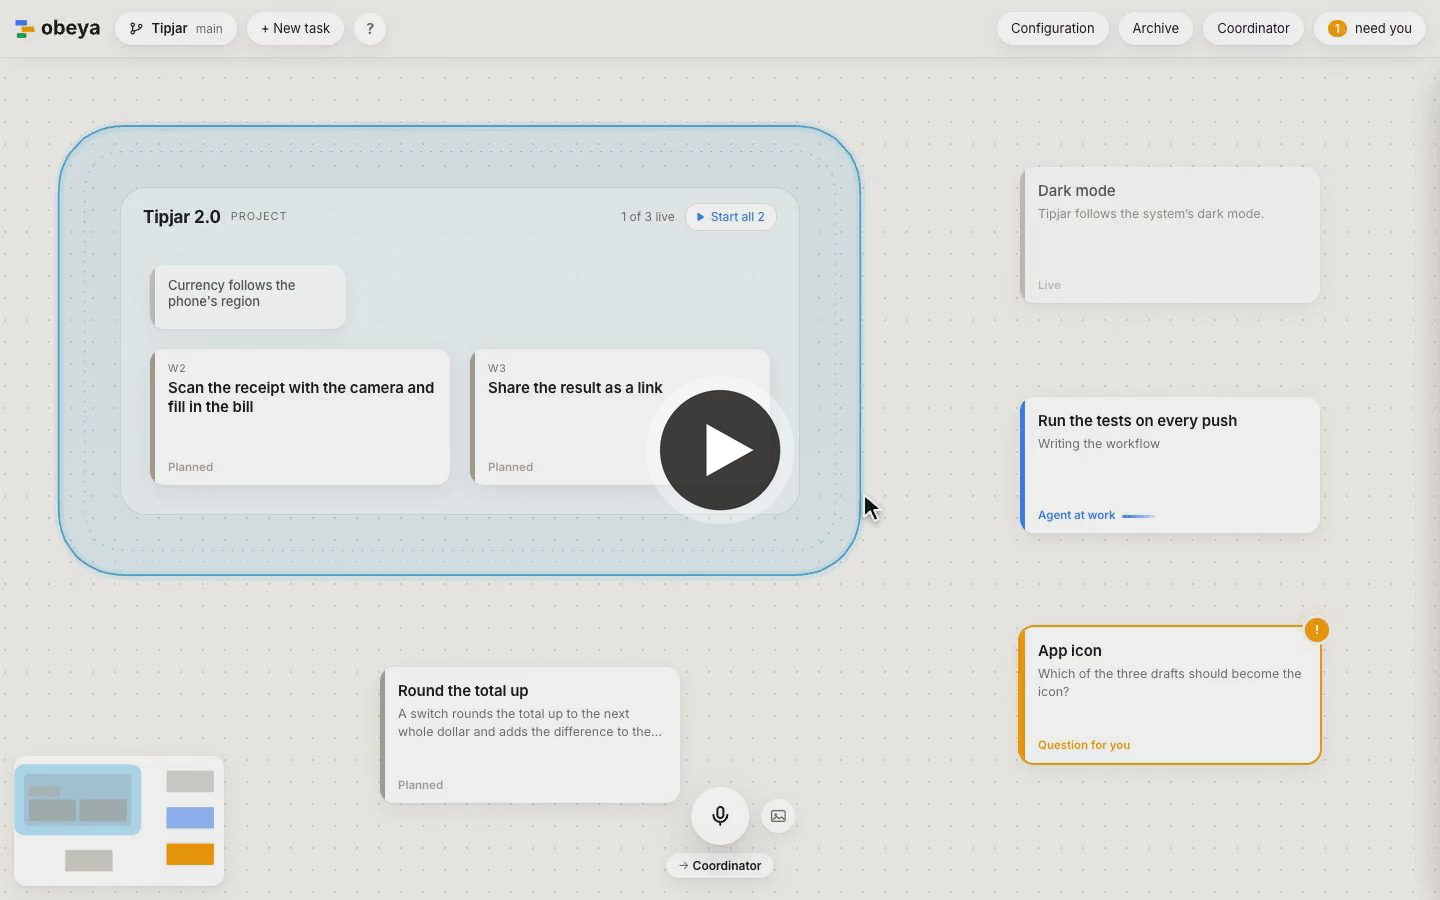
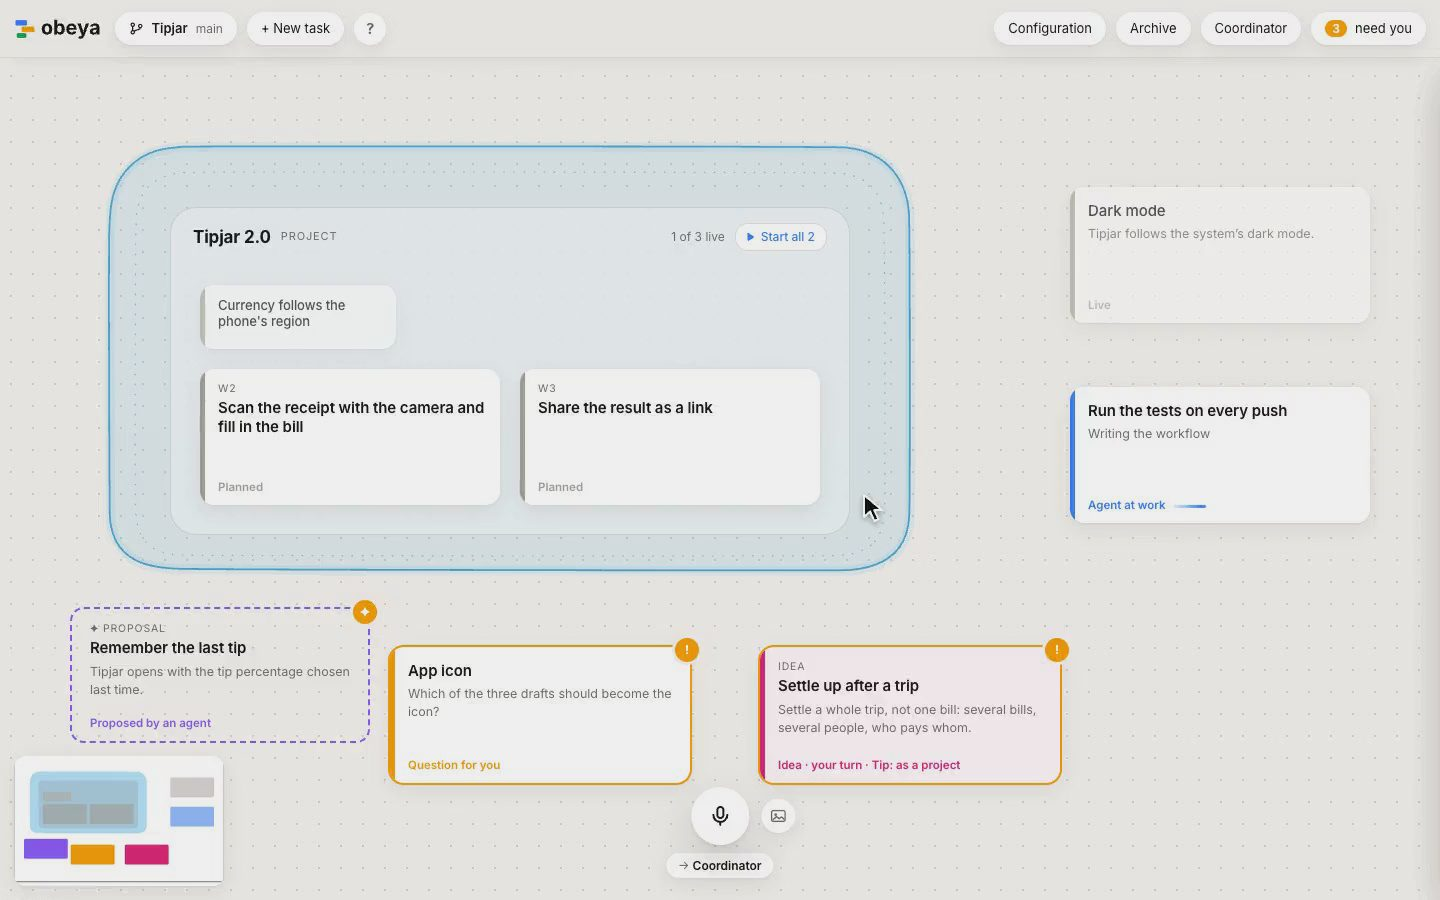
Give the hero video on obeya.si a real play button
The big play button was painted into the poster, so clicking it started nothing; only the small
button in the controls did. The poster now has no button, and a <button> over the video starts
it, with the browser's controls appearing once it plays. Without JavaScript the button stays
hidden and the controls are there from the start. The poster is taken again from the published
render, which also brings it in line with the video's current opening.

diff --git a/site/index.html b/site/index.html
@@ -44,7 +44,24 @@
         <source src="media/hero.mp4" type="video/mp4">
         <track kind="captions" src="media/hero.vtt" srclang="en" label="English">
       </video>
+      <button class="play" type="button" aria-label="Play the video" hidden>
+        <svg viewBox="0 0 148 148" aria-hidden="true"><circle cx="74" cy="74" r="74" fill="#fff" fill-opacity=".38"/>
+          <circle cx="74" cy="74" r="60" fill="#1c1b19" fill-opacity=".84"/><path d="M60.5 48v52l46.8-26z" fill="#fff"/></svg>
+      </button>
     </figure>
+    <script>
+      // With JavaScript the poster shows one big play button instead of the browser's controls;
+      // without it the button stays hidden and the controls start the video.
+      const film = document.querySelector('.player video'), play = document.querySelector('.player .play');
+      film.controls = false;
+      play.hidden = false;
+      play.addEventListener('click', () => {
+        play.hidden = true;
+        film.controls = true;
+        film.play();
+        film.focus();
+      });
+    </script>
     <p class="film-note">A real run on a small app: an idea by voice, an agent at work, its demo, the approval.</p>
   </section>
 

diff --git a/site/style.css b/site/style.css
@@ -46,6 +46,12 @@ section { max-width: var(--wide); margin: 0 auto; padding: 0 24px; }
 .player { position: relative; margin: 0; border-radius: 16px; overflow: hidden; background: #000;
   box-shadow: 0 1px 2px rgba(0,0,0,.06), 0 24px 60px -20px rgba(28,27,25,.35); }
 .player video { display: block; width: 100%; height: auto; }
+.player .play { position: absolute; inset: 0; display: grid; place-items: center; padding: 0; border: 0; background: none; cursor: pointer; }
+.player .play[hidden] { display: none; }
+.player .play svg { width: clamp(72px, 10.3%, 148px); height: auto; border-radius: 50%; transition: transform .15s; }
+.player .play:hover svg { transform: scale(1.06); }
+.player .play:focus-visible { outline: none; }
+.player .play:focus-visible svg { outline: 3px solid var(--blue); outline-offset: 4px; }
 .film-note { text-align: center; font-size: 14px; color: var(--muted); margin: 16px 0 0; }
 
 /* ---------- pillars ---------- */

diff --git a/scripts/hero-video/poster.py b/scripts/hero-video/poster.py
@@ -1,4 +1,5 @@
-"""The site's poster for the hero video: its first frame, slightly dimmed, with a play button.
+"""The site's poster for the hero video: its first frame, slightly dimmed. The play button over it
+is a real button in site/index.html, not part of the picture.
 
     uv run --with pillow python scripts/hero-video/poster.py ~/demos/obeya-hero/demo.mp4 site/img/hero-poster.jpg
 """
@@ -8,21 +9,12 @@ import sys
 import tempfile
 from pathlib import Path
 
-from PIL import Image, ImageDraw
+from PIL import Image
 
 video, out = sys.argv[1], sys.argv[2]
 with tempfile.TemporaryDirectory() as tmp:
     frame = Path(tmp) / "frame.png"
     subprocess.run(["ffmpeg", "-loglevel", "error", "-y", "-ss", "0.6", "-i", video, "-frames:v", "1", str(frame)], check=True)
     im = Image.open(frame).convert("RGBA")
-w, h = im.size
-s = 4  # drawn four times larger and scaled down, for smooth edges
-button = Image.new("RGBA", (w * s, h * s), (0, 0, 0, 0))
-d = ImageDraw.Draw(button)
-cx, cy, r, ring, t = w * s // 2, h * s // 2, 60 * s, 14 * s, 26 * s
-d.ellipse([cx - r - ring, cy - r - ring, cx + r + ring, cy + r + ring], fill=(255, 255, 255, 96))
-d.ellipse([cx - r, cy - r, cx + r, cy + r], fill=(28, 27, 25, 215))
-d.polygon([(cx - t * 0.75 + 6 * s, cy - t), (cx - t * 0.75 + 6 * s, cy + t), (cx + t * 1.05 + 6 * s, cy)], fill=(255, 255, 255, 255))
-button = button.resize((w, h), Image.LANCZOS)
-dim = Image.new("RGBA", (w, h), (28, 27, 25, 18))
-Image.alpha_composite(Image.alpha_composite(im, dim), button).convert("RGB").save(out, quality=82, optimize=True, progressive=True)
+dim = Image.new("RGBA", im.size, (28, 27, 25, 18))
+Image.alpha_composite(im, dim).convert("RGB").save(out, quality=82, optimize=True, progressive=True)

diff --git a/docs/design.md b/docs/design.md
@@ -613,9 +613,12 @@ the owner's language (`src/core/locale.ts`).
   git: it and its captions are the assets `hero.mp4` and `hero.vtt` of the GitHub release
   `site-media`, which the Pages workflow fetches into `site/media/` before it publishes, so
   obeya.si serves them itself (no third party, no tracking). `publish.ts` replaces them and runs
-  the workflow again. On the page it is a `<video>` with native controls, English captions and a
-  poster (`site/img/hero-poster.jpg`, the first frame with a play button, in git), loading nothing
-  before a click (`preload="none"`); opened from the file, the site shows the poster alone.
+  the workflow again. On the page it is a `<video>` with English captions and a poster
+  (`site/img/hero-poster.jpg`, the first frame without a play button, in git), loading nothing
+  before a click (`preload="none"`); opened from the file, the site shows the poster alone. A few
+  lines of script put a big play button (a real `<button>`) over the poster and show the
+  browser's controls once it plays; without JavaScript the controls are there from the start and
+  the button stays hidden.
 - **Configuration** — the canvases with their repositories (path, adapter, clones), seen and edited
   in the "Konfiguration" sheet: each canvas shows its id and whether it runs, each repository its id,
   adapter, whether workers use clones or worktrees, and the command that shares its demos (empty:

diff --git a/scripts/hero-video/README.md b/scripts/hero-video/README.md
@@ -46,6 +46,8 @@ It reads the render from `~/demos/obeya-hero/` (or `HERO_OUT`), creates the rele
 time and replaces its assets after that, and acts as the GitHub account `sadilek` (with the
 token of its gh login) without switching the account gh has active.
 
-The poster (`site/img/hero-poster.jpg`) is the video's first frame with a play button. It is in
-git: when the opening changes, publish with `--poster`, then commit the new poster and push
-`main`, which publishes it.
+The poster (`site/img/hero-poster.jpg`) is the video's first frame, slightly dimmed, without a
+play button: the big play button over it is a `<button>` in `site/index.html`, whose script
+starts the video (without JavaScript the browser's controls do). The poster is in git: when the
+opening changes, publish with `--poster`, then commit the new poster and push `main`, which
+publishes it.
